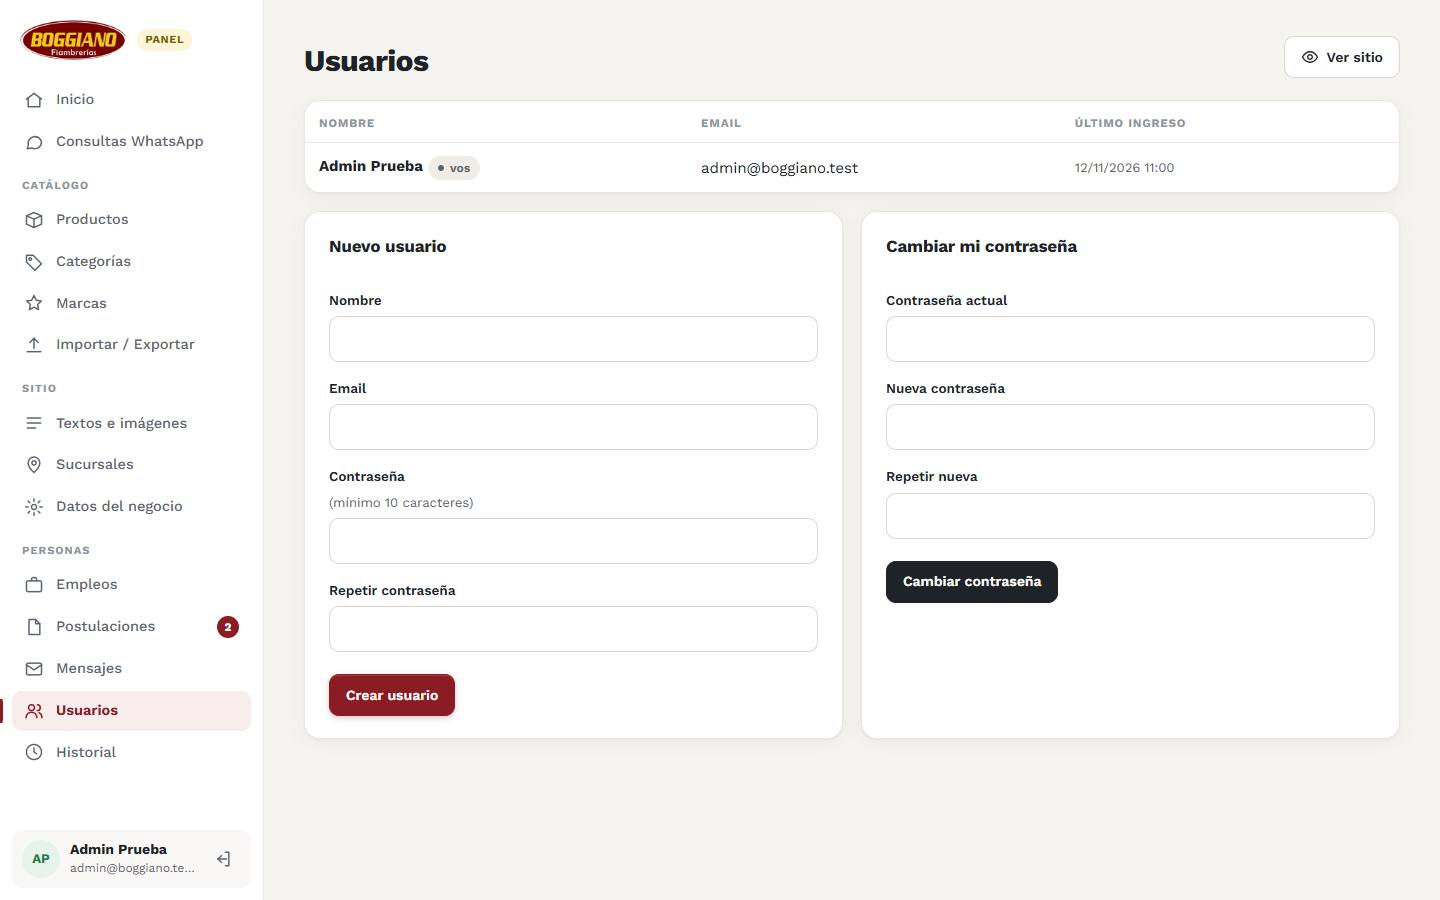
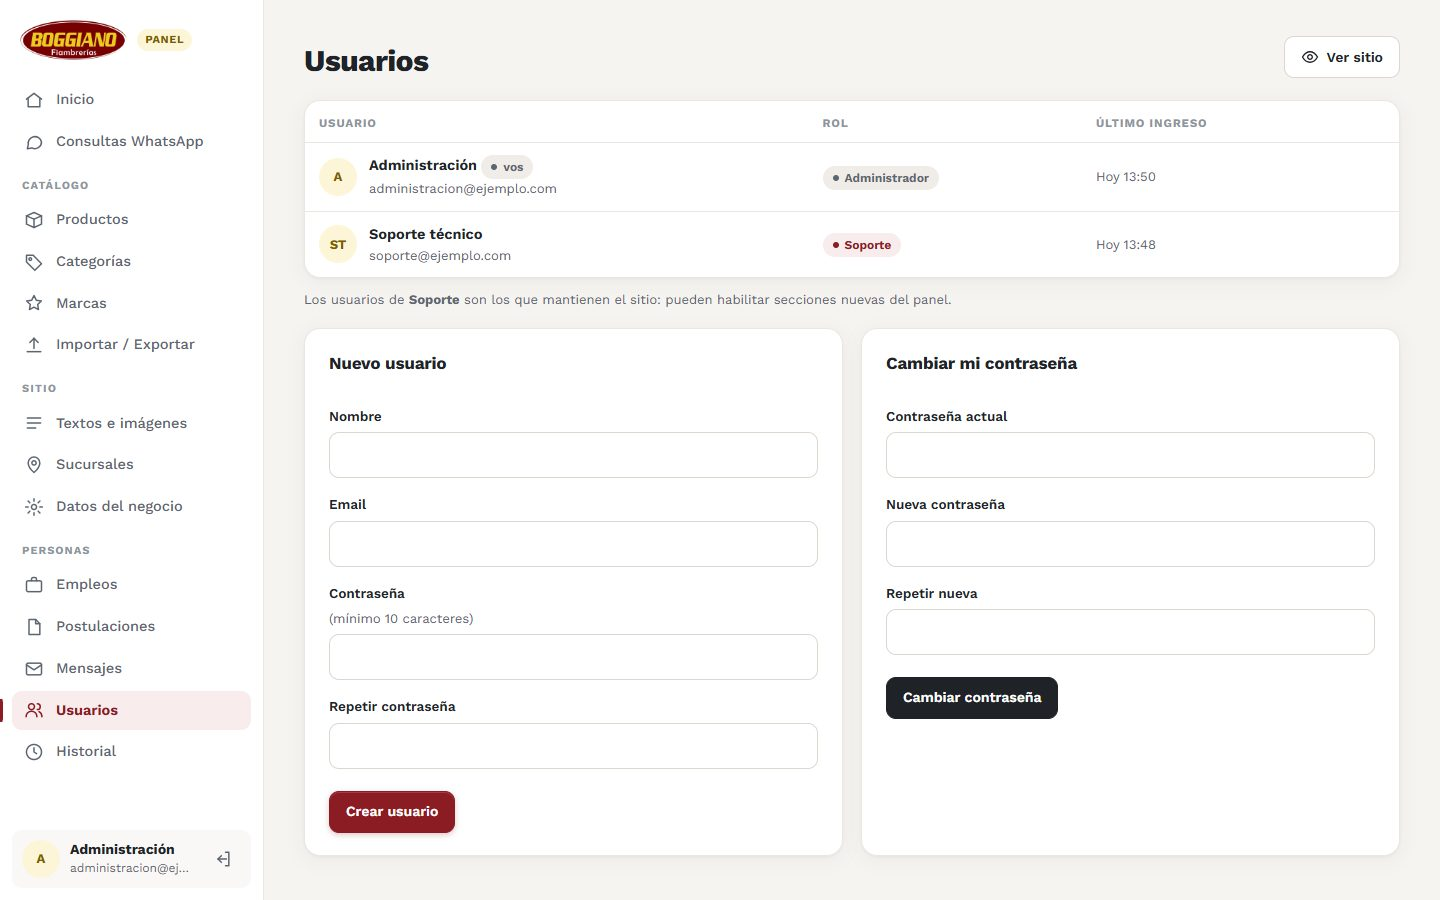
Usuarios: roles Administrador y Soporte, y secciones que habilita soporte

diff --git a/guia/11-usuarios.md b/guia/11-usuarios.md
@@ -6,11 +6,20 @@
 
 ![Usuarios](../img/usuarios.jpg)
 
-Todos los usuarios pueden hacer todo en el panel. No hay permisos distintos.
+## Roles: Administrador y Soporte
+
+Cada usuario tiene un rol, que se ve en la columna **Rol**:
+
+- **Administrador**: carga y cambia todo lo del negocio, como productos, sucursales, búsquedas, postulaciones, mensajes y textos.
+- **Soporte**: es quien mantiene el sitio. Además de todo lo anterior, decide qué secciones del panel están habilitadas. Las secciones nuevas aparecen recién cuando soporte las habilita.
+
+Si buscás una sección que no aparece en el menú, pedísela a soporte. Que una sección esté apagada no borra nada de lo que tenga cargado.
+
+Un administrador no puede borrar a un usuario de soporte ni cambiar roles.
 
 ## Crear un usuario
 
-Completá **Nombre**, **Email** y una **contraseña de al menos 10 caracteres**, dos veces, y tocá **Crear usuario**. El email es con lo que esa persona va a entrar: no tiene que ser una casilla del dominio, puede ser su Gmail.
+Completá **Nombre**, **Email** y una **contraseña de al menos 10 caracteres**, dos veces, y tocá **Crear usuario**. El email es con lo que esa persona va a entrar: no tiene que ser una casilla del dominio, puede ser su Gmail. Los usuarios nuevos se crean como **Administrador**.
 
 Pasale la contraseña por un medio seguro: en persona o por teléfono, no por un mensaje que quede guardado. Pedile que la cambie la primera vez que entre.
 
@@ -20,7 +29,7 @@ En **Cambiar mi contraseña**: la actual, la nueva dos veces, y **Cambiar contra
 
 ## Borrar un usuario
 
-Botón **Borrar** en su fila. La persona deja de poder entrar enseguida. No podés borrar tu propio usuario, y siempre tiene que quedar al menos uno.
+Botón **Borrar** en su fila. La persona deja de poder entrar enseguida. No podés borrar tu propio usuario ni a uno de soporte, y siempre tiene que quedar al menos uno.
 
 ## Si alguien se olvida la contraseña
 

diff --git a/README.md b/README.md
@@ -69,6 +69,7 @@ Hoy el sitio está publicado pero con **datos de ejemplo**. En este orden:
 | Lo que queda escrito al abrir WhatsApp | Textos e imágenes → WhatsApp | [10](guia/10-textos-e-imagenes.md#mensajes-de-whatsapp) |
 | Ver cuántas consultas llegan por WhatsApp | Consultas WhatsApp | [14](guia/14-consultas-por-whatsapp.md) |
 | Quién puede entrar al panel | Usuarios | [11](guia/11-usuarios.md) |
+| Una sección que no aparece en el menú | La habilita soporte | [11](guia/11-usuarios.md#roles-administrador-y-soporte) |
 | Leer los mails de las casillas | Webmail o Gmail | [12](guia/12-correo.md) |
 | Ver quién cambió algo, o deshacer un cambio | Historial | [16](guia/16-historial.md) |
 | Respaldos y qué no tocar | — | [13](guia/13-mantenimiento.md) |
